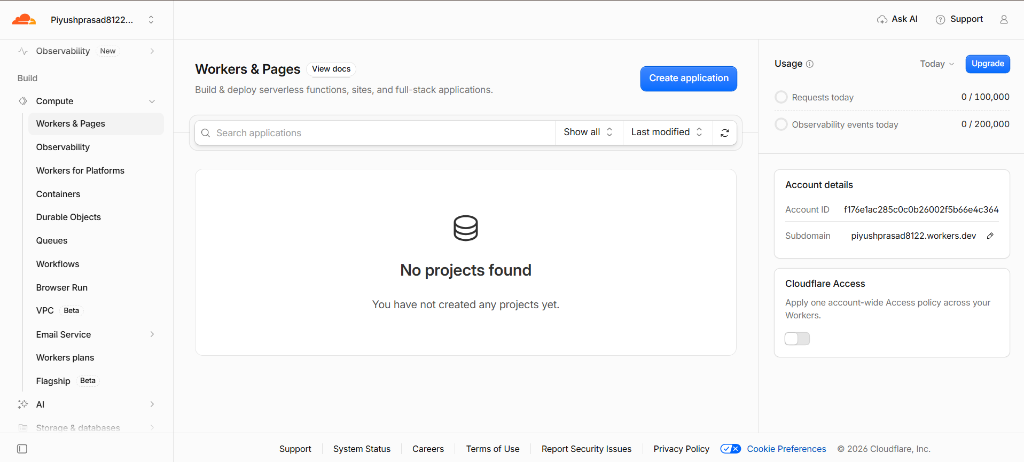
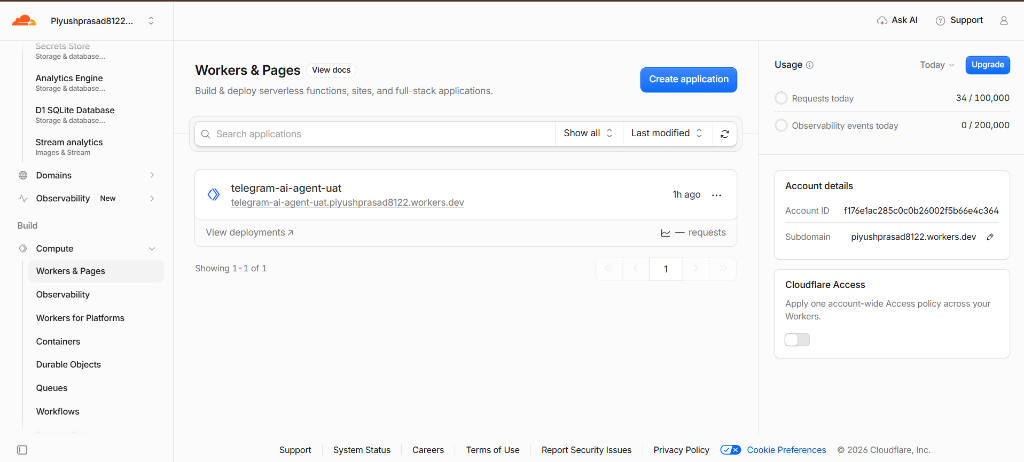
docs: update README with real Cloudflare dashboard, worker topology and D1 database screenshots

diff --git a/README.md b/README.md
@@ -22,19 +22,32 @@ A private, enterprise-ready Telegram AI Assistant built from scratch using **Typ
 
 The application is deployed serverlessly on **Cloudflare Workers** with zero cold starts, global edge routing, and built-in database and AI infrastructure.
 
-![Cloudflare Setup Overview](docs/images/cloudflare-setup.png)
+### 1. Active Worker Deployment & Management
+The worker `telegram-ai-agent-uat` is active, executing on Cloudflare's edge network, and routing incoming Telegram webhook requests:
 
-### What Was Configured & Deployed:
+![Cloudflare Worker Overview](docs/images/cloudflare-setup.png)
+
+### 2. Edge Bindings Architecture & Zero-Error Execution
+The worker connects natively to Workers AI, D1 Database, and Durable Objects with 0 errors and sub-10ms CPU time:
+
+![Cloudflare Worker Bindings & Topology](docs/images/cloudflare-worker-bindings.png)
+
+### 3. Serverless D1 SQL Database (`Storage & databases` ➔ `D1`)
+The relational database `telegram-ai-agent-d1-uat` stores authorized users, conversation context, token metrics, and deduplication records:
+
+![Cloudflare D1 Database Active](docs/images/cloudflare-d1-database.png)
+
+### Detailed Configuration Breakdown:
 
 #### 1. Account & Worker Environment
 * **Account ID:** `f176e1ac285c0c0b26002f5b66e4c364`
 * **Subdomain:** `piyushprasad8122.workers.dev`
-* **Worker Target:** `telegram-ai-agent-uat` running on Cloudflare's global edge network.
+* **Worker Target:** `telegram-ai-agent-uat` running live on Cloudflare's global edge network.
 
-#### 2. Cloudflare D1 SQL Database (`Storage & databases` ➔ `D1`)
-* **Database Name:** `telegram-ai-agent-d1-uat`
+#### 2. Cloudflare D1 SQL Database (`telegram-ai-agent-d1-uat`)
 * **Database UUID:** `822915c4-31bc-4e99-b585-f047d7bb04a6`
 * **Region:** APAC (Singapore `SIN` primary colo)
+* **Performance:** Over 129 queries processed, with 168+ rows read and 153+ rows written.
 * **Applied Migrations:**
   * `0001_initial_schema.sql` — Initializes `users`, `conversations`, `messages`, and `audit_logs` tables.
   * `0002_add_updates_usage_settings.sql` — Provisions `processed_updates` (for webhook deduplication), `ai_usage` (token/cost telemetry), and `system_settings`.
